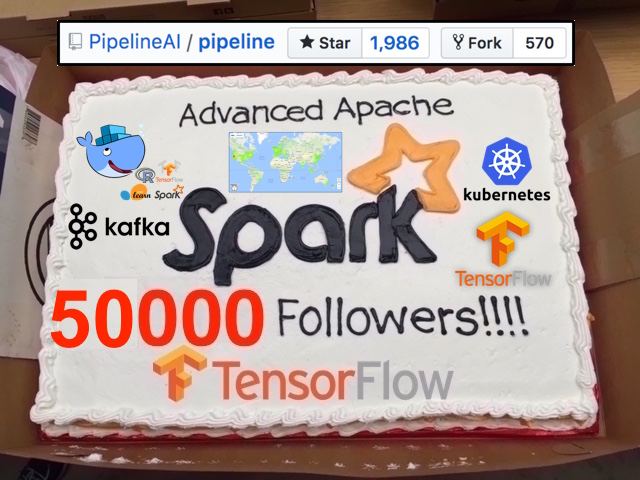
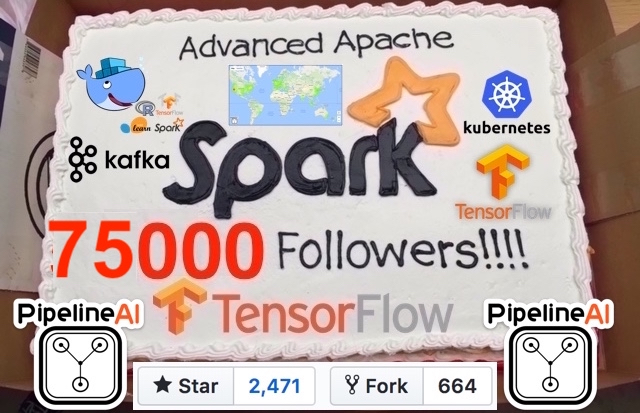
updated images, main page

diff --git a/docs/src/index.html b/docs/src/index.html
@@ -61,13 +61,20 @@
             <div class="row no-gutters justify-content-center align-items-center">
                 <div class="col mx-auto">
                     <p class="text-center" data-aos="fade-right" style="color:rgb(255,255,255);font-size:26px;padding:0px;margin:0px 0px 0px;"><img src="assets/img/logo/pipelineai-logo-597x512.png" width="250px" data-aos="fade-right" style="margin:20px 0px 20px 0px;"></p>
-                    <p class="text-center" data-aos="fade-left" style="color:rgb(255,255,255);font-size:26px;padding:0px;margin:0px 0px 0px;">The Enterprise AI Platform</p>
+                    <p class="text-center" data-aos="fade-left" style="color:rgb(255,255,255);font-size:30px;padding:0px;margin:0px 0px 0px;"><strong>The Standard Enterprise AI Pipeline</strong></p>
+                    <hr style="color:rgb(255,255,255);background-color:#ffffff;width:200px;">
+                    <p class="text-center" data-aos="fade-left" style="color:rgb(255,255,255);font-size:28px;padding:0px;margin:0px 0px 0px;">End-to-End Hyper-Parameter Tuning Across</p>
+                    <p class="text-center" data-aos="fade-left" style="color:rgb(255,255,255);font-size:28px;padding:0px;margin:0px 0px 0px;">Offline Model Training &amp; Live Predicting</p>
+                    <hr style="color:rgb(255,255,255);background-color:#ffffff;width:200px;">
+                    <p class="text-center" data-aos="fade-left" style="color:rgb(255,255,255);font-size:26px;padding:0px;margin:0px 0px 0px;"><strong>75,000</strong> Community<strong>&nbsp;</strong>Users</p>
+                    <p class="text-center" data-aos="fade-left" style="color:rgb(255,255,255);font-size:26px;padding:0px;margin:0px 0px 0px;"><strong>25</strong> Enterprise Users&nbsp;</p>
+                    <p class="text-center" data-aos="fade-left" style="color:rgb(255,255,255);font-size:26px;padding:0px;margin:0px 0px 0px;"><strong>85</strong> Countries</p>
                     <p class="text-center" style="color:white;font-size:18px;margin:25px 0px 0px 0px;"><a class="btn btn-primary active btn-lg" role="button" href="/features" style="font-size:12px;padding:20px;margin:0px;"><strong>VIEW FEATURES</strong></a><a class="btn btn-primary active btn-lg" role="button" href="/products" style="font-size:12px;padding:20px;margin:0px 0px 0px 10px;"><strong>COMPARE PRODUCTS</strong></a></p>
                     <p
                         class="lead text-center" id="github-metrics" style="color:white;font-size:18px;margin:25px 0px 0px 0px;"><center>
     <a class="github-button" href="https://github.com/pipelineai/pipeline" data-size="large" data-show-count="true" aria-label="Stars pipelineai/pipeline on GitHub">Stars</a>
     &nbsp;
-    <a class="github-button" href="https://github.com/pipelineai/pipeline/fork" data-size="large" data-show-count="true" aria-label="Forks pipelineai/pipeline on GitHub">Forks</a> 
+    <a class="github-button" href="https://github.com/pipelineai/pipeline/fork" data-size="large" data-show-count="true" aria-label="Forks pipelineai/pipeline on GitHub">Forks</a>
 </center></p>
                 </div>
             </div>
@@ -109,7 +116,7 @@
                 <p class="text-center description"> </p>
             </div>
             <div class="col-sm-6 col-md-4 item" style="height:100px;">
-                <h3 class="text-center name"><img src="assets/img/huawei-logo.png" alt="Huawei and PipelineAI" style="width:200px;padding:20px 0px 0px 0px;"></h3>
+                <h3 class="text-center name"><img src="assets/img/huawei-logo.png" alt="Huawei and PipelineAI" style="width:200px;padding:10px 0px 0px 0px;"></h3>
             </div>
             <div class="col-sm-6 col-md-4 item" style="height:100px;">
                 <h3 class="text-center name"><img src="assets/img/halliburton-logo.png" alt="Halliburton and PipelineAI" style="width:160px;padding:20px 0px 0px 0px;"></h3>
@@ -150,10 +157,13 @@
             <div class="col-sm-6 col-md-4 item" style="padding:0px;height:100px;">
                 <h3 class="text-center name"><img src="assets/img/charles-schwab-logo2.png" style="width:200px;padding:10px 0px 0px 0px;"></h3>
             </div>
+            <div class="col-sm-6 col-md-4 item" style="padding:0px;height:100px;">
+                <h3 class="text-center name"><img src="assets/img/verizon-digital-logo.png"></h3>
+            </div>
         </div>
     </section>
     <h2 class="text-center" style="margin:20px 0px 0px;background-color:rgb(238,244,247);"> <img src="assets/img/logo/pipelineai-split-black-258x62.png" alt="PipelineAI">&nbsp;In The News</h2>
-    <h2 class="text-center" style="color:rgb(134,1,239);background-color:rgb(238,244,247);padding:5px;font-size:24px;"><i class="fa fa-thumbs-up" style="color:rgb(134,1,239);"></i><strong> Mar 2018: </strong>PipelineAI Surpasses<strong> Databricks</strong> to Become<strong> #1 Spark Meetup</strong></h2>
+    <h2 class="text-center" style="color:rgb(134,1,239);background-color:rgb(238,244,247);padding:5px;font-size:24px;"><i class="fa fa-thumbs-up" style="color:rgb(134,1,239);"></i><strong> Mar 2018: </strong>PipelineAI Hosts<strong>&nbsp;#1 Spark, TensorFlow, and Kuberentes Meetups</strong></h2>
     <p class="text-center"><a href="https://www.meetup.com/Advanced-Spark-And-TensorFlow-Meetup"><img src="assets/img/largest-spark-meetup-in-the-world.png" style="height:150px;margin:0px 10px;"></a><a href="https://www.meetup.com/Advanced-Spark-And-TensorFlow-Meetup"><img src="assets/img/largest-tensorflow-meetup-in-the-world.png" style="height:150px;margin:0px 10px;"></a>
         <a
             href="https://www.meetup.com/Advanced-Spark-And-TensorFlow-Meetup"><img src="assets/img/largest-kubernetes-meetup-in-the-world.png" style="height:150px;margin:0px 10px;"></a>
